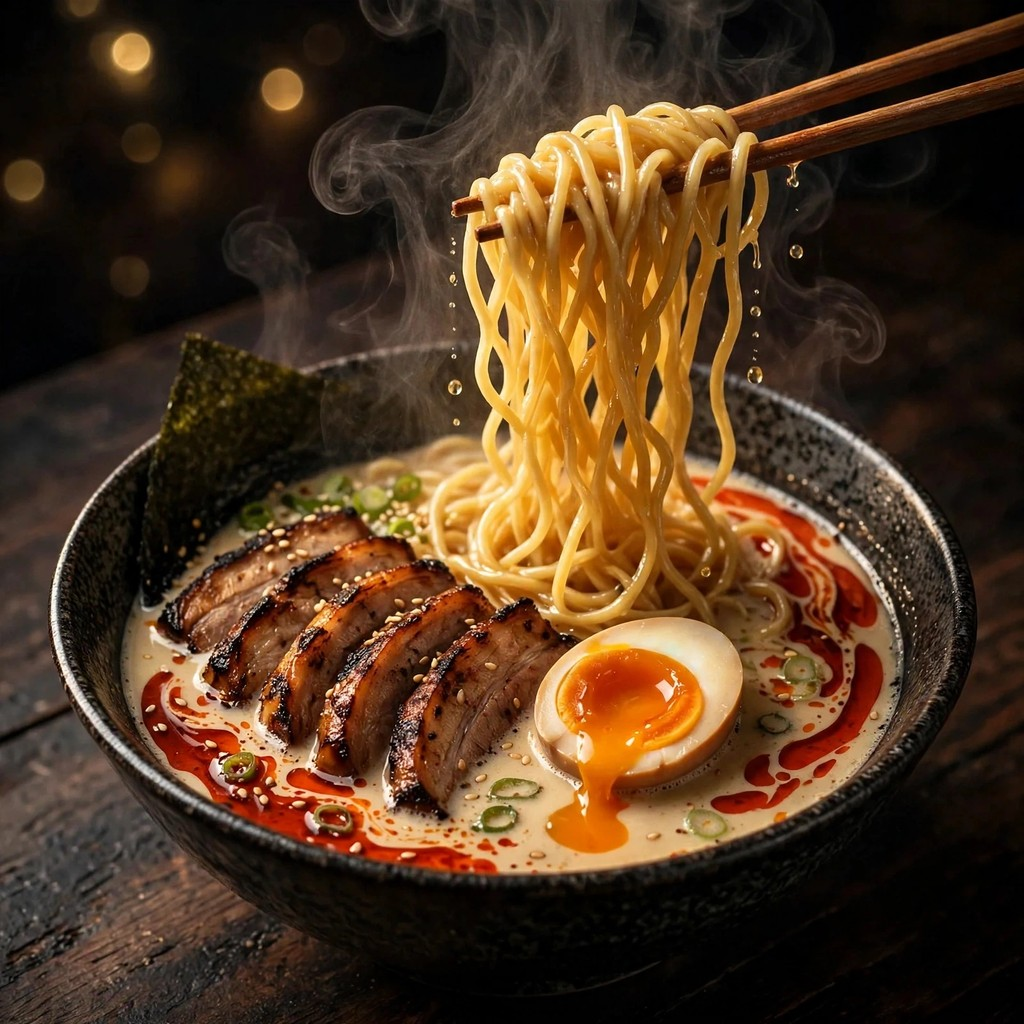
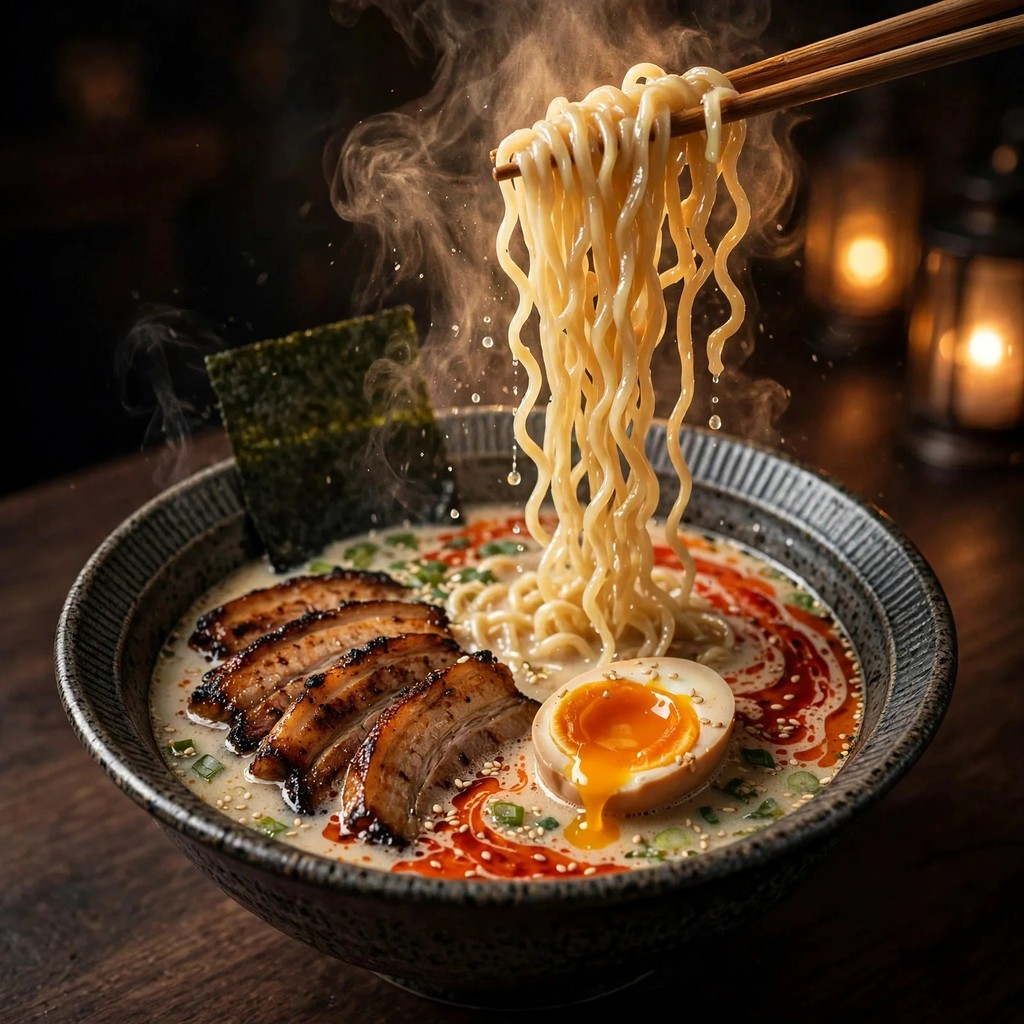
Replace entry with candidate I: maximum-action noodle pull (food-picture-01 round 3)

diff --git a/README.md b/README.md
@@ -7,8 +7,9 @@ a tall glossy noodle pull, charred chashu, a halved ajitama egg with its yolk
 dripping, chili-oil swirls in the creamy broth, nori, spring onion and sesame.
 
 The program copies the deterministic picture (`entry.png`, 1024x1024 JPEG,
-234,013 bytes) to `/output/entry.png`. The picture is AI-generated from the
+226,907 bytes) to `/output/entry.png`. The picture is AI-generated from the
 winning formula of this competition's top entries (tonkotsu noodle pull,
-steam, dark table) with one change: glistening broth droplets falling from
-the lifted noodles, so the pull looks freshly lifted and alive. (v1, replaced:
-the molten egg as hero.)
+steam, dark table) with one change: the maximum-action moment — the tallest
+glossy noodle pull, glistening broth droplets falling, the yolk caught
+mid-drip, and strong backlit steam. (v1, replaced: the molten egg as hero.
+Round 2, replaced: broth droplets on the rank-1 composition.)
